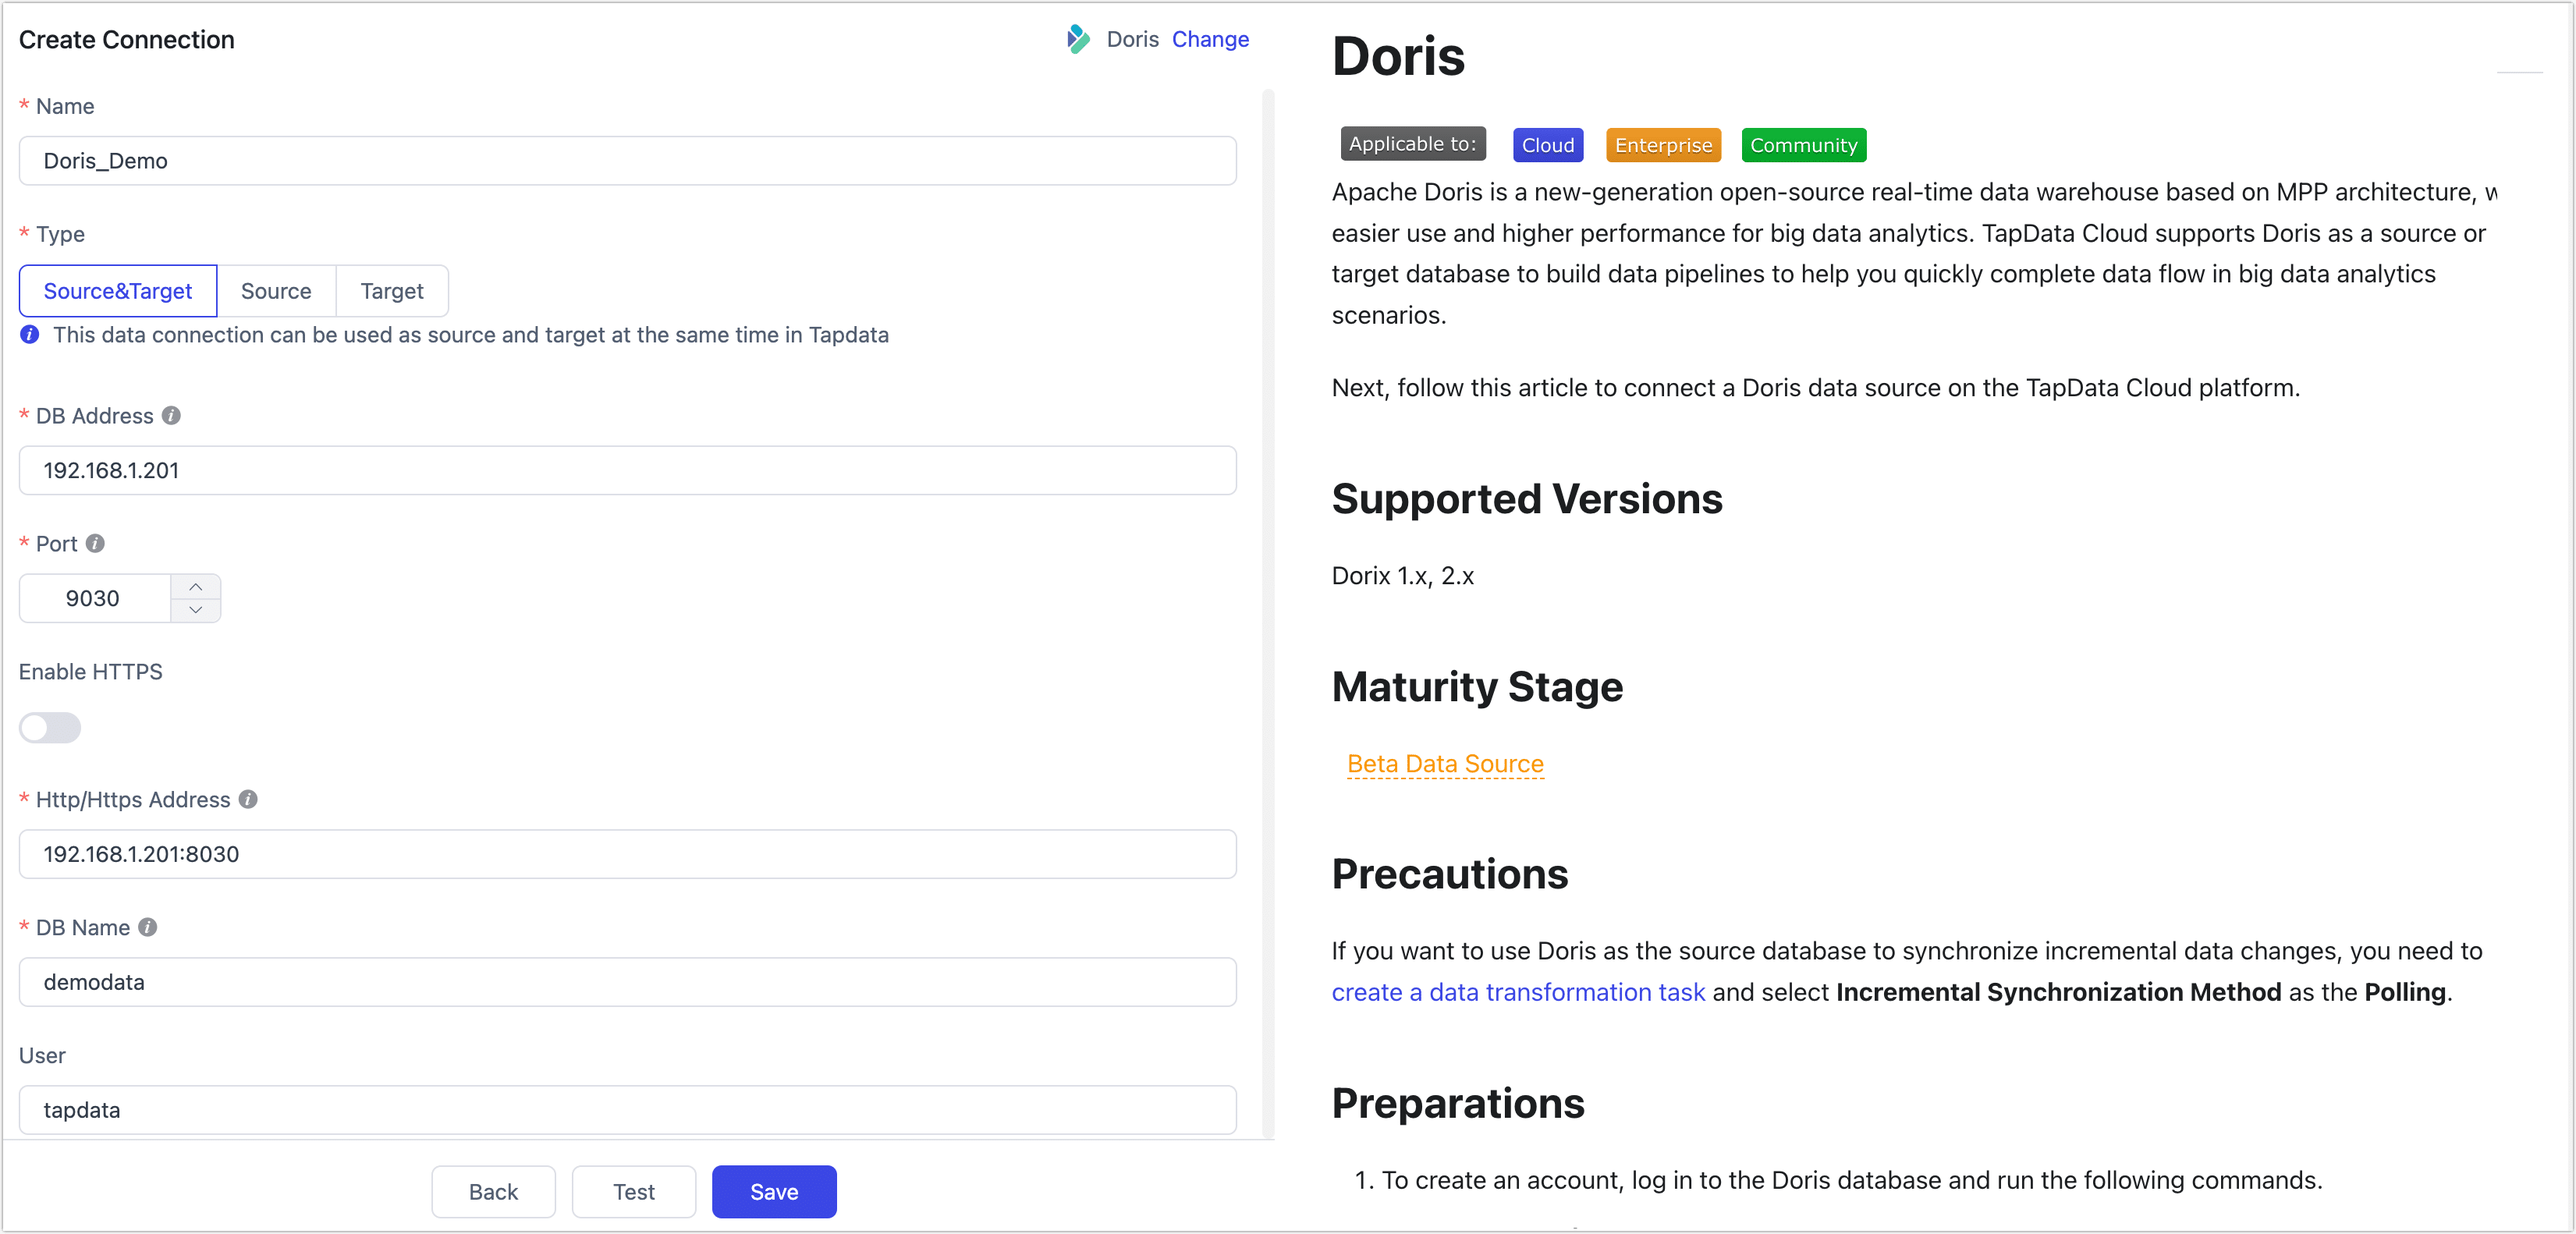
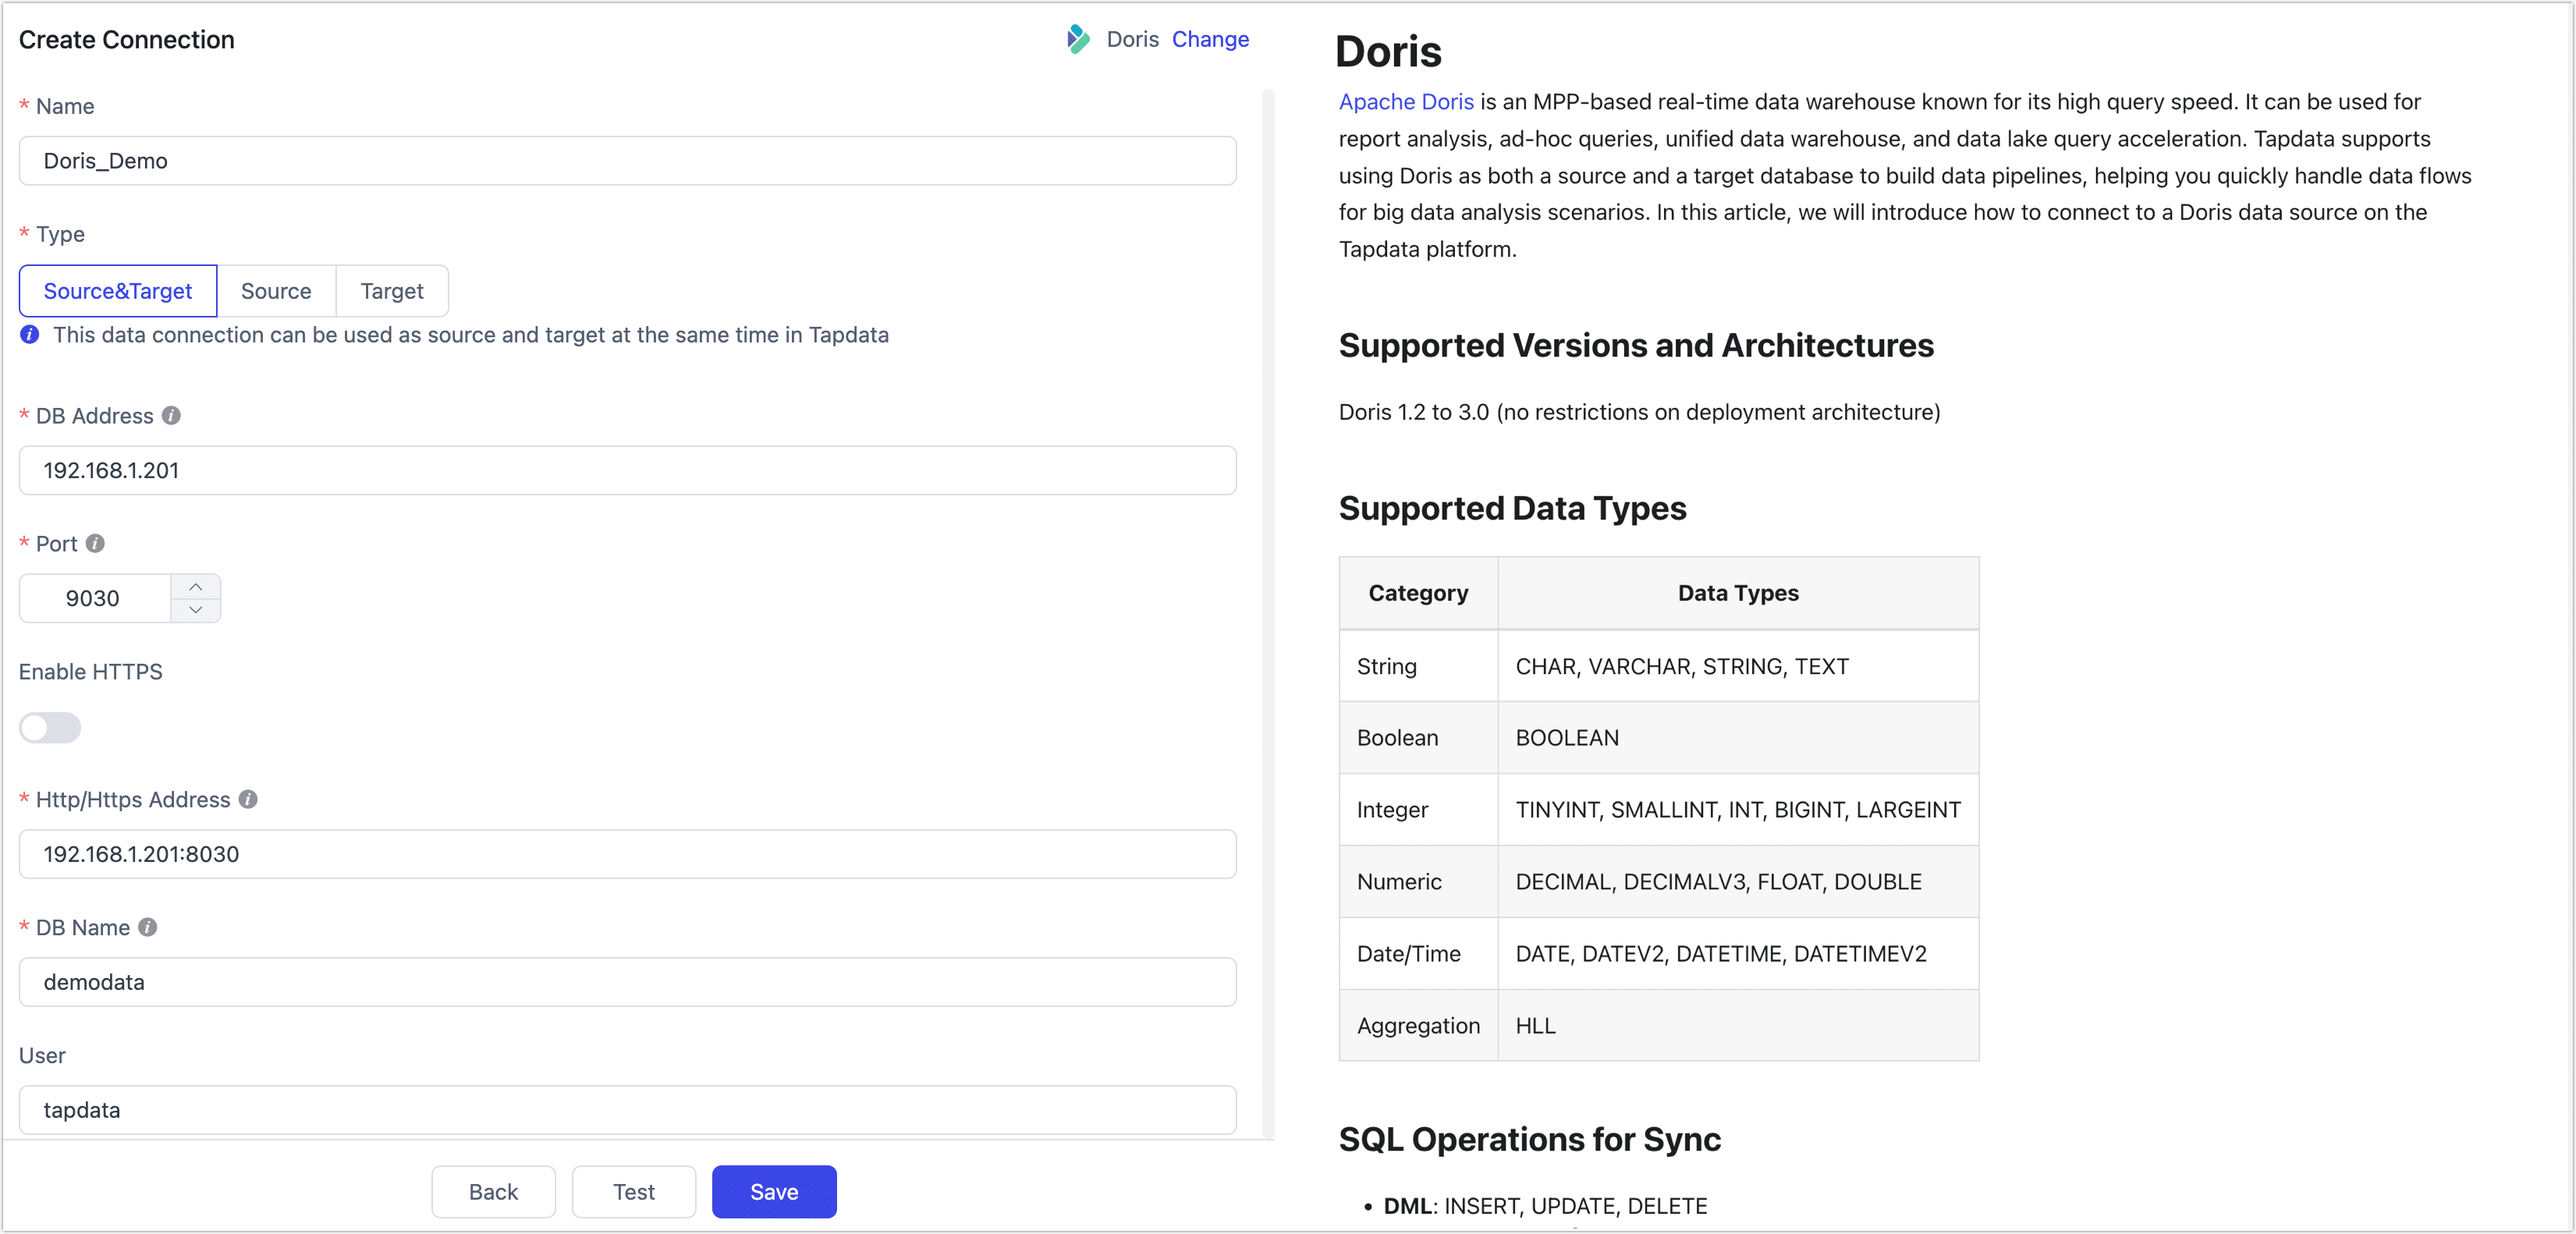
Update Doris Connection Tutorial

diff --git a/docs/prerequisites/warehouses-and-lake/doris.md b/docs/prerequisites/warehouses-and-lake/doris.md
@@ -4,28 +4,46 @@ import Content1 from '../../reuse-content/_all-features.md';
 
 <Content1 />
 
-Apache Doris is a new-generation open-source real-time data warehouse based on MPP architecture, with easier use and higher performance for big data analytics. TapData Cloud supports Doris as a source or target database to build data pipelines to help you quickly complete data flow in big data analytics scenarios.
-
-Next, follow this article to connect a Doris data source on the TapData Cloud platform.
+[Apache Doris](https://doris.apache.org/) is an MPP-based real-time data warehouse known for its high query speed. It can be used for report analysis, ad-hoc queries, unified data warehouse, and data lake query acceleration. Tapdata supports using Doris as both a source and a target database to build data pipelines, helping you quickly handle data flows for big data analysis scenarios. In this article, we will introduce how to connect to a Doris data source on the Tapdata platform.
 
 ```mdx-code-block
 import Tabs from '@theme/Tabs';
 import TabItem from '@theme/TabItem';
 ```
 
-## Supported Versions
+## Supported Versions and Architectures
 
-Dorix 1.x, 2.x
+Doris 1.2 to 3.0 (no restrictions on deployment architecture)
 
-import Content from '../../reuse-content/_beta.md';
+## Supported Data Types
 
-<Content />
+| Category    | Data Types                               |
+| ----------- | ---------------------------------------- |
+| String      | CHAR, VARCHAR, STRING, TEXT              |
+| Boolean     | BOOLEAN                                  |
+| Integer     | TINYINT, SMALLINT, INT, BIGINT, LARGEINT |
+| Numeric     | DECIMAL, DECIMALV3, FLOAT, DOUBLE        |
+| Date/Time   | DATE, DATEV2, DATETIME, DATETIMEV2       |
+| Aggregation | HLL                                      |
 
+## SQL Operations for Sync 
 
+* **DML**: INSERT, UPDATE, DELETE
+* **DDL** (supported only as a target): ADD COLUMN, CHANGE COLUMN, DROP COLUMN, RENAME COLUMN
 
-## Precautions
+:::tip
 
-If you want to use Doris as the source database to synchronize incremental data changes, you need to [create a data transformation task](../../user-guide/data-development/create-task.md) and select **Incremental Synchronization Method** as the **Polling**.
+- When used as a source database, incremental data synchronization needs to be implemented through field polling and does not support DDL operations. For more details, see [Change Data Capture (CDC)](../../introduction/change-data-capture-mechanism.md).
+- When used as a target database, you can also configure DML write strategies through the advanced settings of the task node, such as whether to convert insert conflicts to updates.
+
+:::
+
+## Considerations
+
+* Due to the inherent limitations of Doris, frequent transactional operations (such as frequent updates and deletes) should be avoided when using it as a target database to prevent performance issues during data writes.
+* Currently, Tapdata supports data writing via the Stream Load method. Therefore, for tables created using the **Duplicate Key Model** or **Aggregation Key Model**, update and delete operations are not fully supported.
+* When using Doris as a target database for large-scale data ingestion, it is recommended to configure batch sizes between 10,000 to 100,000 records, based on the size of individual records, to improve performance. Avoid setting the batch size too large to prevent OOM issues.
+* To reduce the impact on query performance, it is advisable to perform large-scale data ingestion into Doris during off-peak business hours to avoid consuming excessive database I/O resources.
 
 ## Preparations
 
@@ -51,10 +69,12 @@ If you want to use Doris as the source database to synchronize incremental data 
 <Tabs className="unique-tabs">
 <TabItem value="As a Source Database">
 ```
+
 ```sql
 -- Replace the catalog_name, database_name, and username follow the tips below
 GRANT SELECT_PRIV ON catalog_name.database_name.* TO 'username'@'%';
 ```
+
 </TabItem>
 
 <TabItem value="As a Target Database">
@@ -63,55 +83,72 @@ GRANT SELECT_PRIV ON catalog_name.database_name.* TO 'username'@'%';
 -- Replace the catalog_name, database_name, and username follow the tips below
 GRANT SELECT_PRIV, ALTER_PRIV, CREATE_PRIV, DROP_PRIV, LOAD_PRIV ON catalog_name.database_name.* TO 'username'@'%';
 ```
+
 </TabItem>
 </Tabs>
+
+
 
 :::tip
 
 Please replace the username, password, and host in the command above.
-* **catalog_name**: The name of the data catalog. The default name is **internal**. You can view the created data catalog through the [SHOW CATALOGS](https://doris.apache.org/zh-CN/docs/1.2/sql-manual/sql-reference/Show-Statements/SHOW-CATALOGS) command. For more information, see [Multi Catalog](https://doris.apache.org/docs/1.2/lakehouse/multi-catalog/).
+
+* **catalog_name**: The name of the data catalog. The default name is **internal**. You can view the created data catalog through the [SHOW CATALOGS](https://doris.apache.org/docs/sql-manual/sql-statements/Show-Statements/SHOW-CATALOGS) command. For more information, see [Multi Catalog](https://doris.apache.org/docs/1.2/lakehouse/multi-catalog/).
 * **database_name**: Enter database name.
 * **username**: Enter user name.
 
 :::
 
+## Connecting to Doris
 
+1. [Log in to Tapdata platform](../../user-guide/log-in.md).
 
-## Connect to Doris
-
-1. [Log in to TapData Platform](../../user-guide/log-in.md).
-
-2. In the left navigation panel, click **Connections**.
+2. In the left navigation bar, click **Connections**.
 
 3. On the right side of the page, click **Create**.
 
 4. In the pop-up dialog, search for and select **Doris**.
 
-5. On the page you are redirected to, follow the instructions below to fill in the connection information for Doris.
+5. Fill in the Doris connection information as described below.
 
-   ![Connect Doris](../../images/connect_doris.png)
+   ![Connect to Doris](../../images/connect_doris.png)
 
-   - Basic Settings
-     - **Name**: Fill in a unique name that has business significance.
-     - **Type**: Doris is supported as a source or target database.
-     - **DB Address**: The connection address of Doris.
-     - **Port**: The query service port for Doris, the default port is **9030**.
-     - **Enable HTTPS**: Select whether to enable the certificate-free HTTPS connection feature.
-     - **HTTP/HTTPS Address**: The HTTP protocol address of the FE service, including address and port(e.g. http://192.168.1.18:8040), the default port is **8030**.
-     - **DB Name**: database name, a connection corresponding to a database, if there are multiple databases, you need to create multiple connections.
-     - **User**, **Password**: The database username and password.
-   - Advanced Setting
-     - **Doris Catalog**: The catalog of Doris, whose hierarchy is above the database. If you use the default catalog, you can leave it empty. For more information, see [Multi-Catalog](https://doris.apache.org/docs/1.2/lakehouse/multi-catalog/).
-     - **Other Connection String Parameters**: Additionally connection parameters, empty by default.
-     - **Timezone**: Defaults to the time zone used by the database, which you can also manually specify according to your business needs.
-     - **Agent Settings**: Defaults to **Platform automatic allocation**, you can also manually specify an Agent.
-     - **Model Load Time**: If there are less than 10,000 models in the data source, their information will be updated every hour. But if the number of models exceeds 10,000, the refresh will take place daily at the time you have specified.
-     - **Enable Heartbeat Table**: This switch is supported when the connection type is set as the **Source&Target** or **Source**. TapData Cloud will generate a table named **tapdata_heartbeat_table** in the source database, which is used to monitor the source database connection and task health.
+    - **Connection Settings**
+      - **Name**: Enter a meaningful and unique name.
+      - **Type**: Supports using Doris as a source or target database.
+      - **DB Address**: The Doris connection address.
+      - **Port**: The Doris query service port. The default port is **9030**.
+      - **Enable HTTPS**: Choose whether to enable the HTTPS connection without certificates.
+      - **HTTP/HTTPS Address**: The HTTP/HTTPS protocol access address for the FE service, including address and port information. The default port is **8030**.
+      - **DB Name**: One connection corresponds to one database. If there are multiple databases, you need to create multiple connections.
+      - **User** and **Password**: Enter the database username and password, respectively.
+    - **Advanced Settings**
+      - **Doris Catalog**: The Doris catalog, which is a higher level than the database. If using the default catalog, this can be left empty. For more details, see [Multi-Catalog](https://doris.apache.org/zh-CN/docs/1.2/lakehouse/multi-catalog/).
+      - **Additional Connection Parameters**: Any additional connection parameters, default is empty.
+      - **Timezone**: The default timezone is 0 UTC. Changing to a different timezone will affect the synchronization of fields without timezone information (such as `DATETIME`, `DATETIMEV2`), while fields like `DATE` and `DATE2` are not affected.
+      - **Agent Settings**: Defaults to **Platform automatic allocation**, you can also manually specify an agent.
+      - **Model Load Time**: If there are less than 10,000 models in the data source, their schema will be updated every hour. But if the number of models exceeds 10,000, the refresh will take place daily at the time you have specified.
+      - **Enable Heartbeat Table**: When the connection type is **Source&Target** or **Source**, you can enable this switch. TapData will create a _tapdata_heartbeat_table heartbeat table in the source database and update it every 10 seconds (requires appropriate permissions) to monitor the health of the data source connection and tasks. The heartbeat task starts automatically after the data replication/development task starts, and you can view the [heartbeat task](../../best-practice/heart-beat-task.md) in the data source editing page.
 
-6. Click **Test Connection**, and when passed, click **Save**.
+6. Click **Test** at the bottom of the page. After passing the test, click **Save**.
 
    :::tip
 
-   If the connection test fails, follow the prompts on the page to fix it.
+   If the connection test fails, please follow the prompts on the page to resolve the issue.
 
    :::
+
+## Node Advanced Features
+
+When configuring data synchronization or transformation tasks with Doris as the target node, Tapdata provides advanced features to better meet complex business requirements and maximize performance. You can configure these features based on your business needs:
+
+![Doris Node Advanced Settings](../../images/doris_node_advanced_settings.png)
+
+| Configuration         | Description                                                  |
+| --------------------- | ------------------------------------------------------------ |
+| **Key Type**          | Choose the table key type: **Unique** (default, Unique Key Model), **Aggregate** (Aggregation Key Model), or **Duplicate** (Duplicate Key Model). For more information, see [Data Models](https://doris.apache.org/docs/table-design/data-model/overview). <br />When the key type is **Duplicate** and using append mode for writes, since there are no update conditions, you need to specify the sort fields. |
+| **Partition Key**     | Refers to the `DISTRIBUTED BY HASH` partition key used when creating the table. If a partition key is manually set, it will be prioritized. If not set, the primary key or update condition fields will be used by default. If neither is specified, all fields will be used (not recommended). |
+| **Number of Buckets** | Choose the number of buckets when creating the table, based on actual business needs. For more information, see [Bucket Design Recommendations](https://doris.apache.org/docs/table-design/data-partition?_highlight=bucket&_highlight=nu#recommendations-for-bucket-number-and-data-volume). |
+| **Table Properties**  | Supports specifying [table properties](https://doris.apache.org/docs/sql-manual/sql-statements/Data-Definition-Statements/Create/CREATE-TABLE#properties) during table creation based on business requirements. |
+| **Write Buffer Size**| Default is 10,240 KB. Increasing the size can improve performance for bulk data inserts, while decreasing it can limit memory usage and prevent OOM. |
+| **Write Format**     | Supports JSON (default) and CSV formats. JSON is more secure and suitable for complex data types but offers slightly lower performance. Choose based on data security and performance requirements. |
